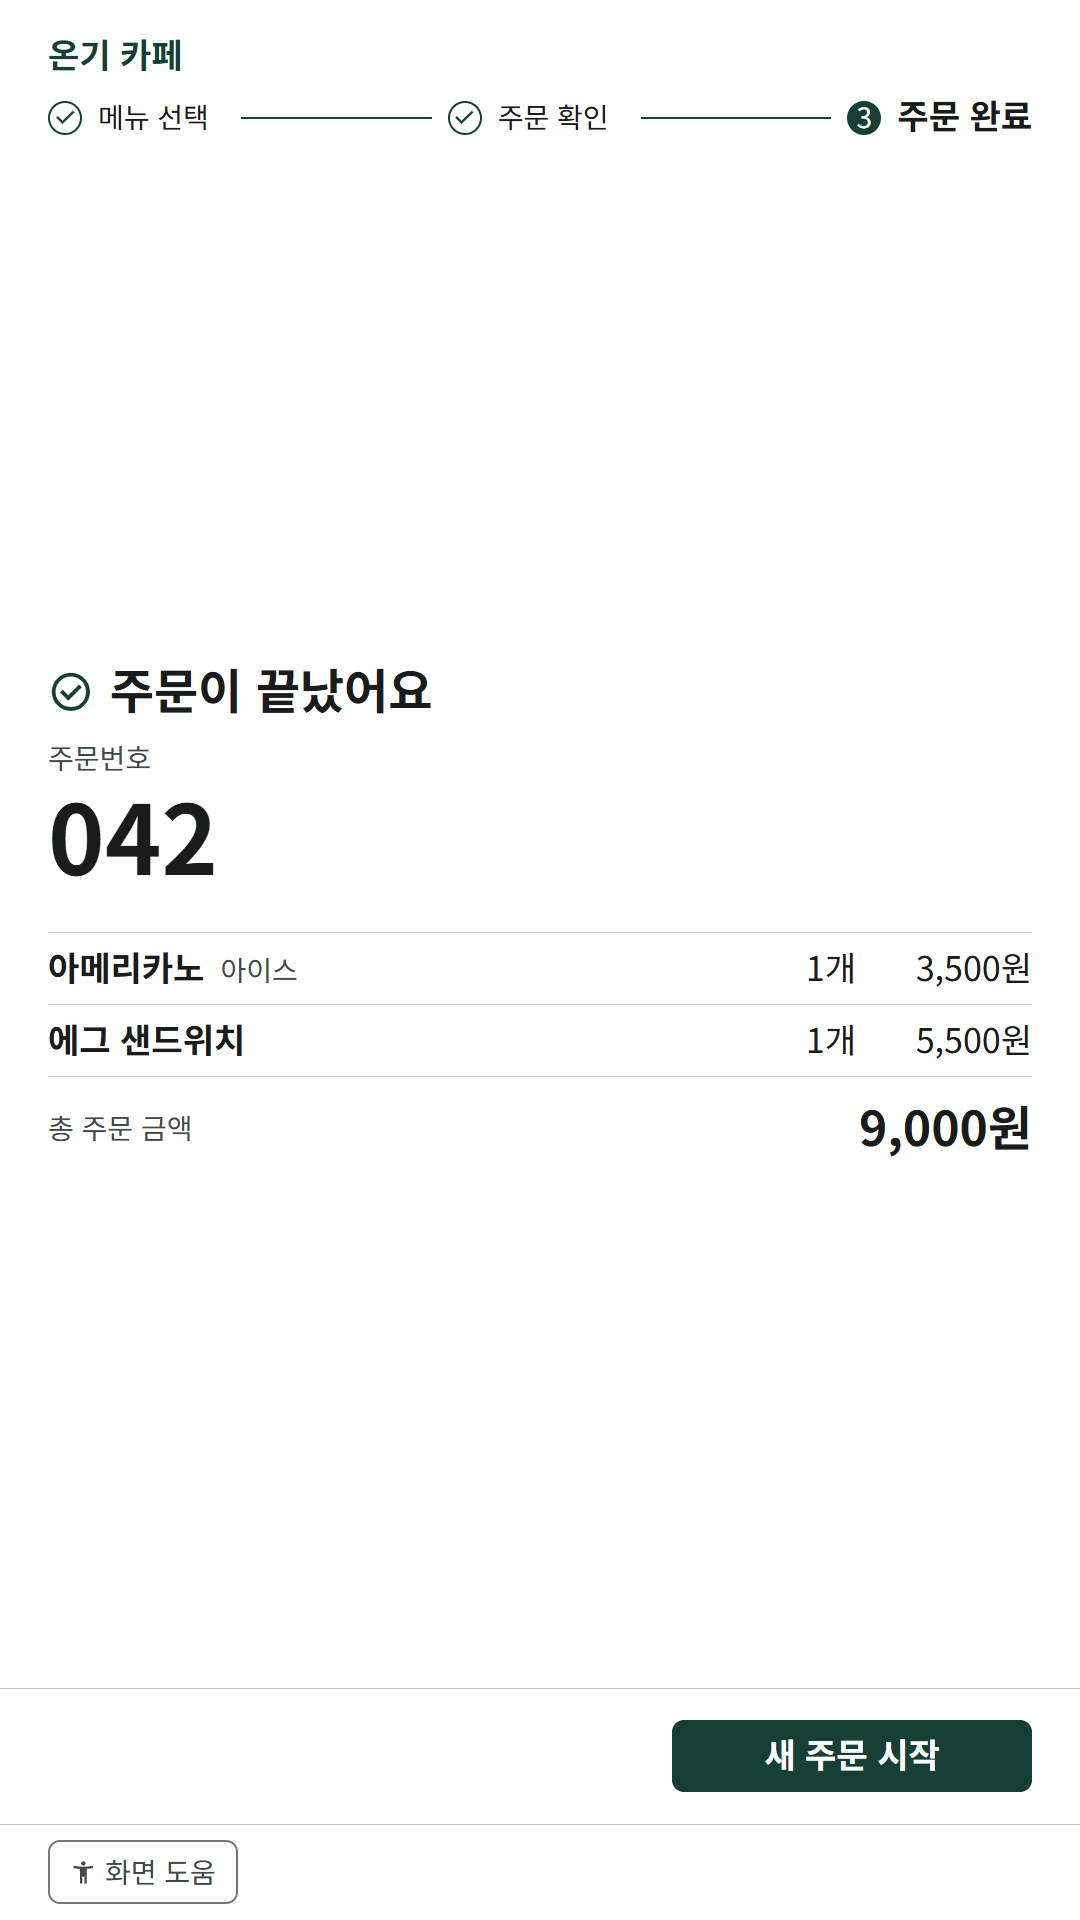
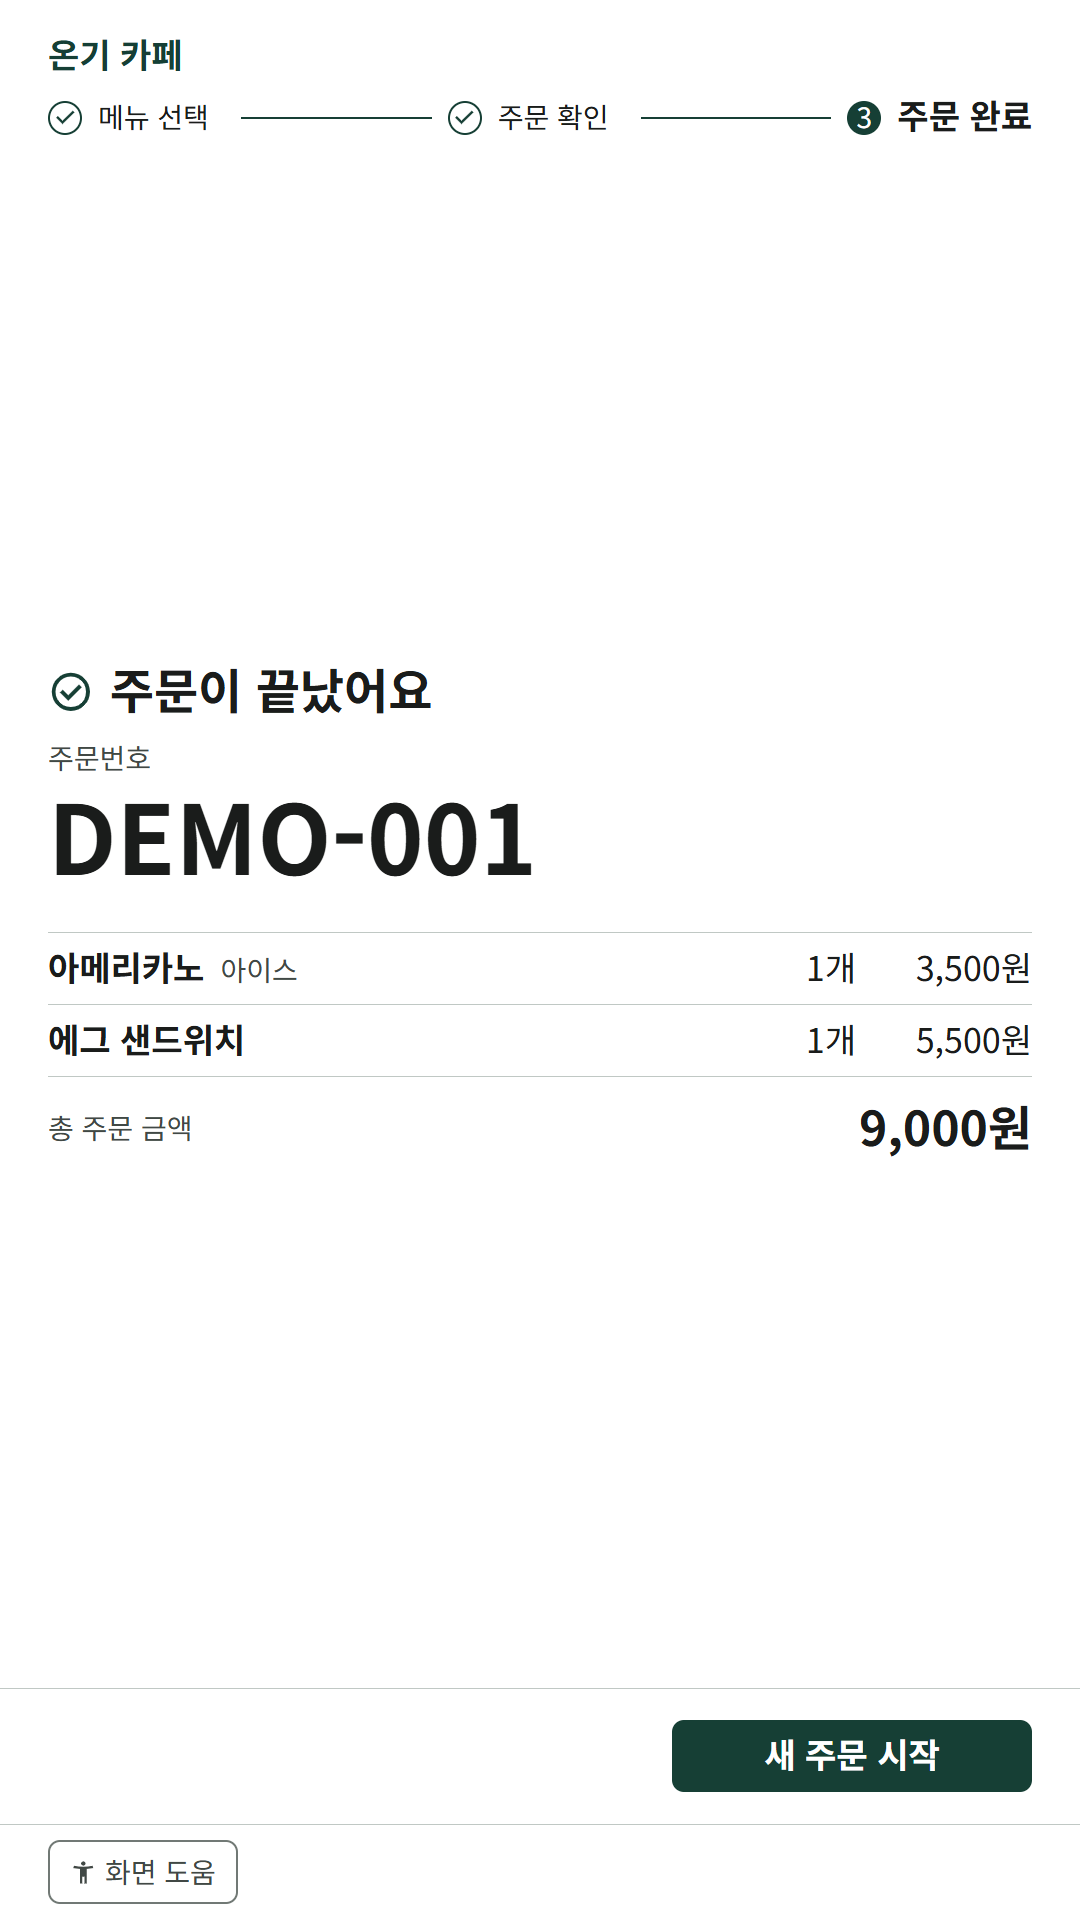
docs: 주문 완료 스크린샷을 DEMO-001 주문번호로 다시 촬영

Changed region(s): [[0.0611, 0.4062, 0.3056, 0.4688], [0.3361, 0.4062, 0.4889, 0.4688]]

diff --git a/docs/screenshots/order-screen-redesign/README.md b/docs/screenshots/order-screen-redesign/README.md
@@ -1,13 +1,13 @@
 # 주문 화면 변경 스크린샷
 
-2026-11-15 Edge headless에서 CSS 뷰포트 1080×1920, 브라우저 확대율 100%로 촬영했습니다. 움직임 줄이기를 적용해 애니메이션을 멈춘 상태입니다. 배포 미리보기에서 샘플 상품 17개의 고정 API 응답을 사용했습니다. `support-offer.png`와 `large-view.png`는 제안 카드가 아직 특징 전송 응답에 연결되지 않아 개발 샘플 서버에서 촬영했습니다.
+2026-11-15 Edge headless에서 CSS 뷰포트 1080×1920, 브라우저 확대율 100%로 촬영했습니다. 움직임 줄이기를 적용해 애니메이션을 멈춘 상태입니다. 배포 미리보기에서 샘플 상품 17개의 고정 API 응답을 사용했습니다. `support-offer.png`와 `large-view.png`는 제안 카드가 아직 특징 전송 응답에 연결되지 않아 개발 샘플 서버에서 촬영했습니다. `complete.png`는 2026-11-16에 같은 조건으로 다시 촬영했고, 고정 응답의 주문번호는 개발 샘플의 첫 번호 `DEMO-001`입니다.
 
 | 이미지 | 화면·설정 | 뷰포트 |
 |---|---|---|
 | [menu-default.png](menu-default.png) | 메뉴·기본: 상품 3열 3줄, 담은 메뉴 한 줄, 하단 주문 바 | 1080×1920 |
 | [option-sheet.png](option-sheet.png) | 옵션 선택 창: 온도, 수량, 담기 | 1080×1920 |
 | [review.png](review.png) | 주문 확인 | 1080×1920 |
-| [complete.png](complete.png) | 주문 완료 | 1080×1920 |
+| [complete.png](complete.png) | 주문 완료: 주문번호 DEMO-001 | 1080×1920 |
 | [support-offer.png](support-offer.png) | 화면 지원 제안 카드: “글자와 버튼을 크게 해 드릴까요?” | 1080×1920 |
 | [large-view.png](large-view.png) | 크게 보기를 적용한 메뉴: 상품 3열 2줄, [원래대로] | 1080×1920 |
 | [low-screen.png](low-screen.png) | 낮은 화면: 위쪽은 [화면 위로 올리기] 누름 자리 | 1080×1920 |
